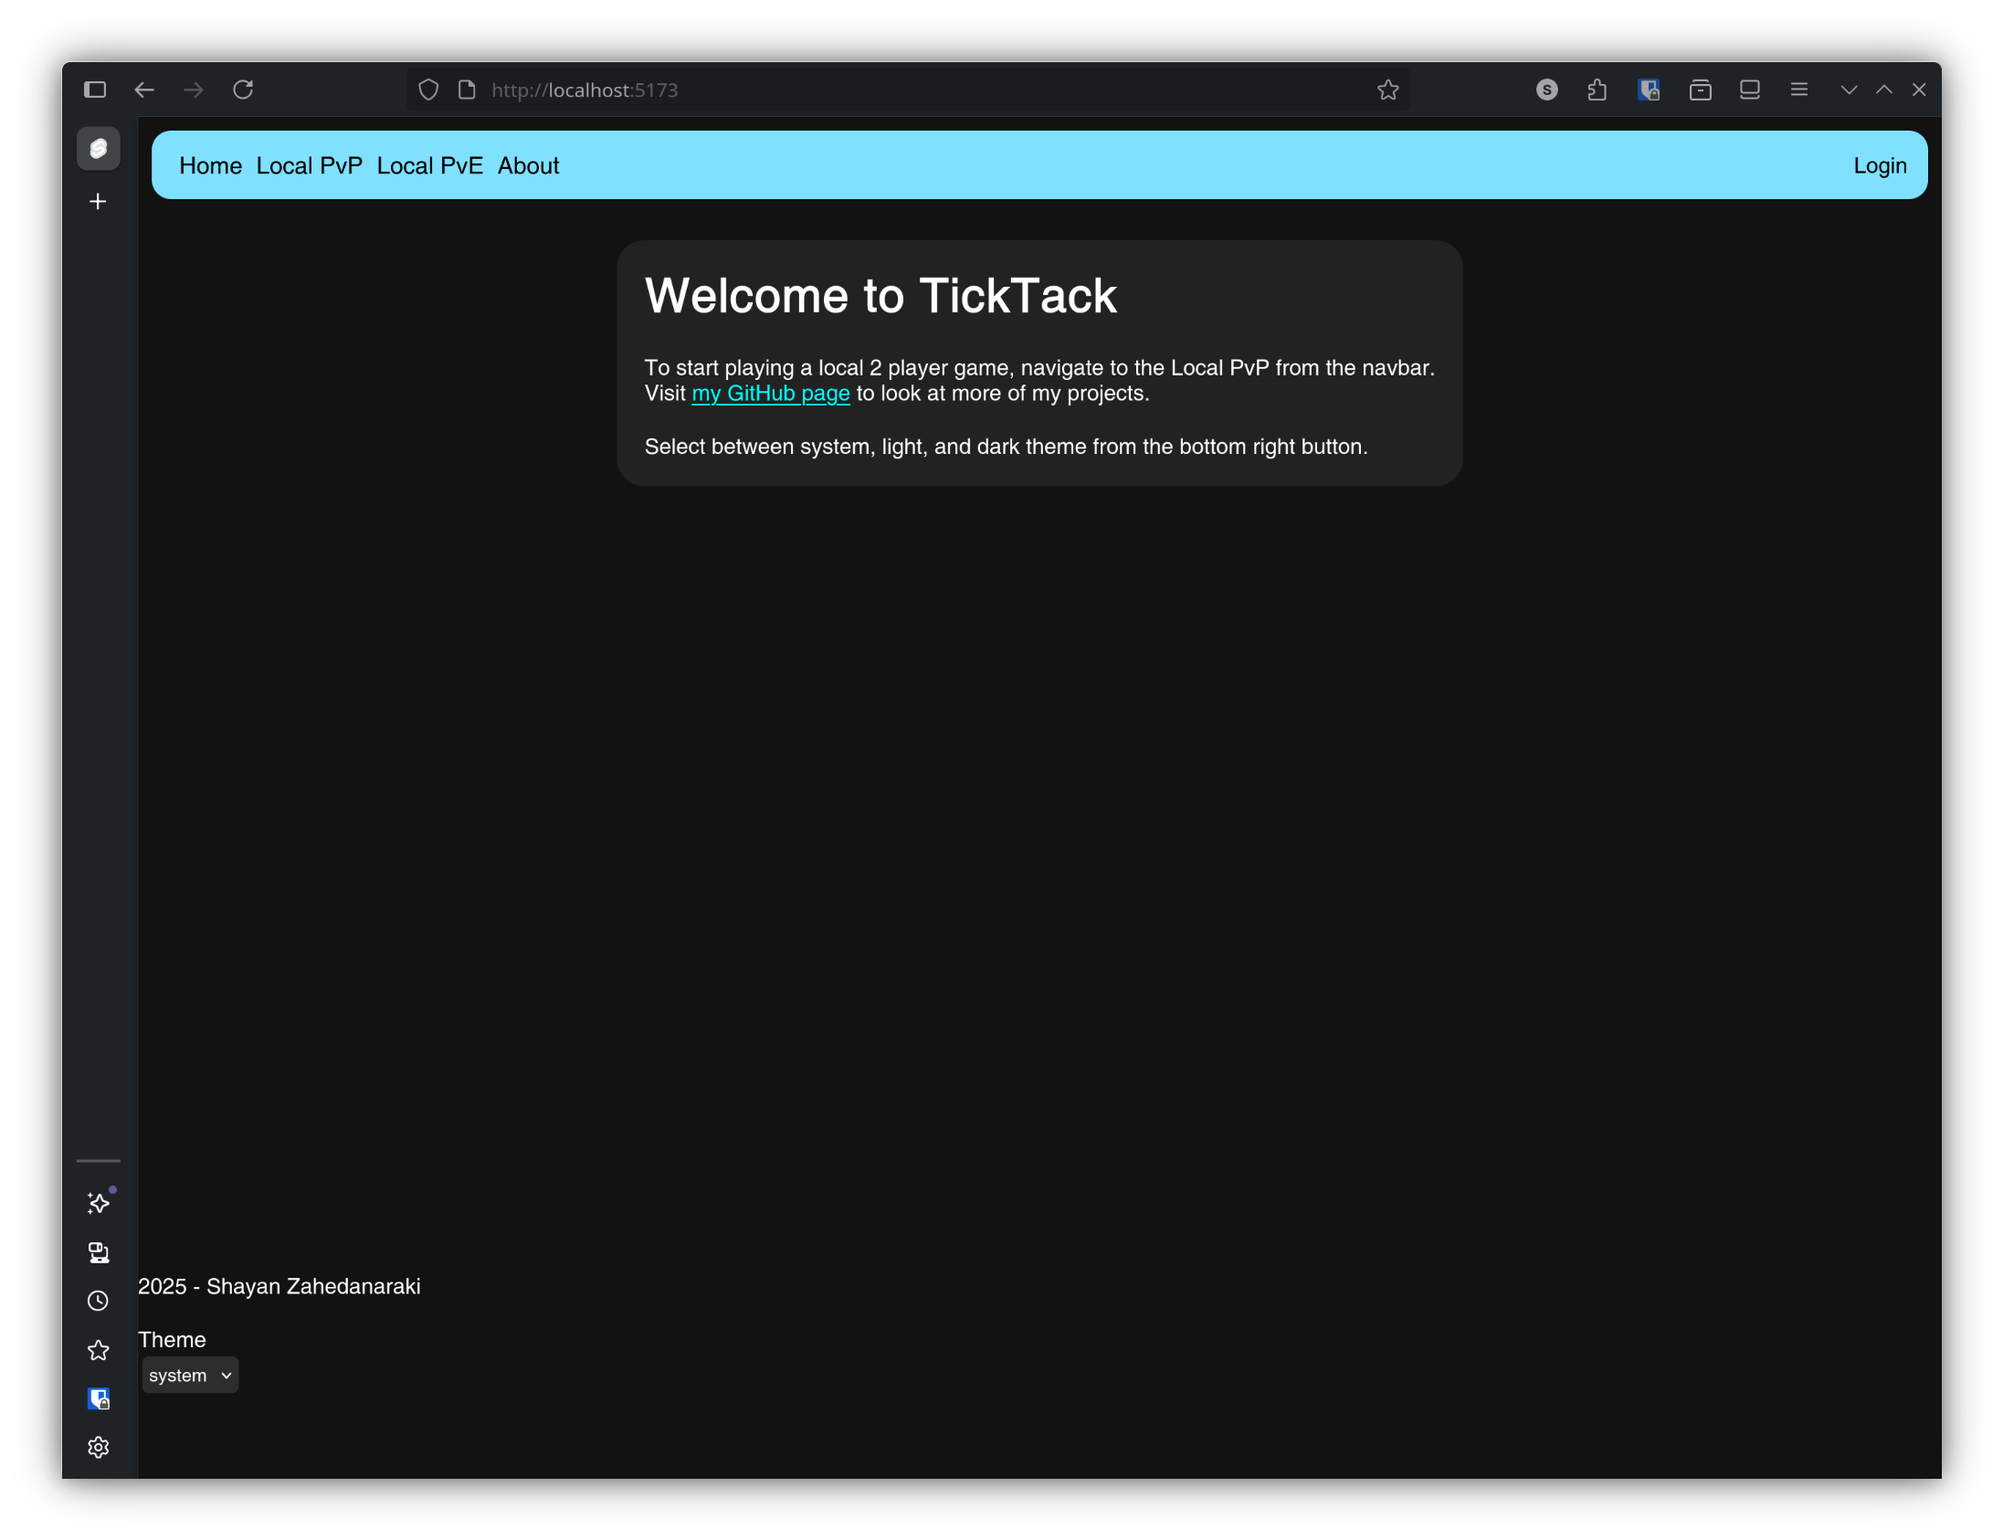
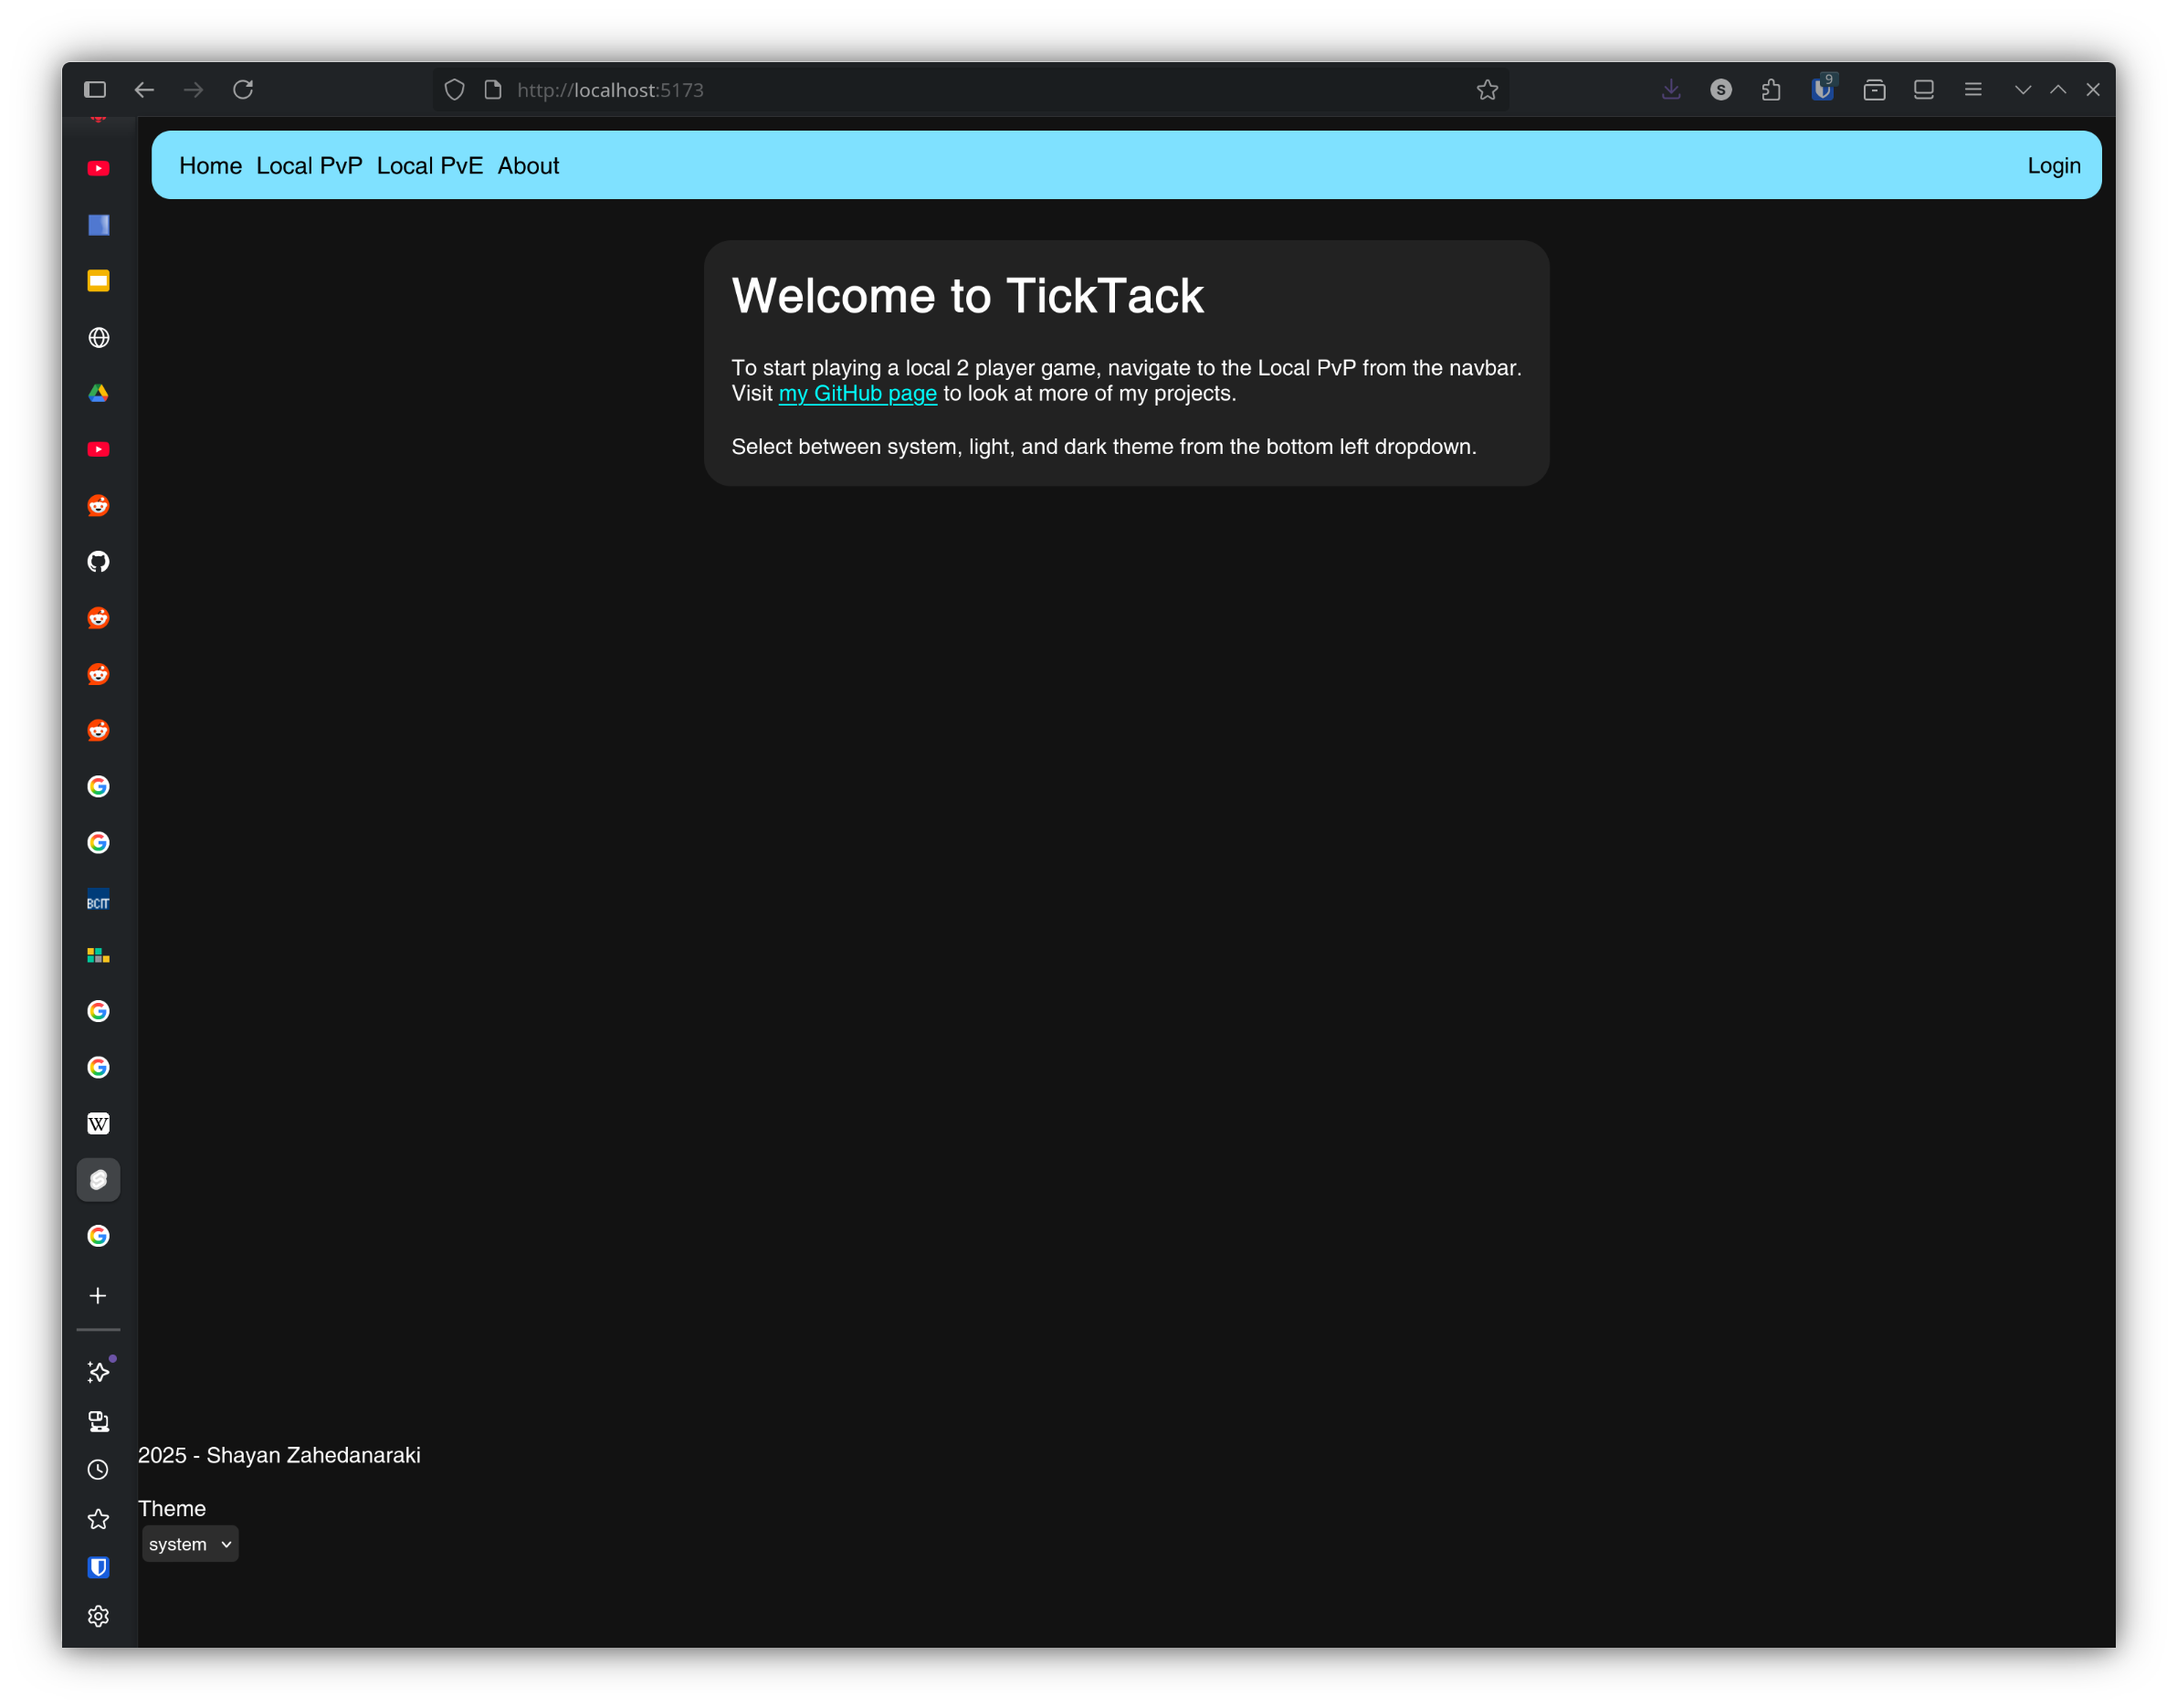
Fixed minor error in index and home page  welcome paragraph.

diff --git a/frontend/src/routes/home/+page.svelte b/frontend/src/routes/home/+page.svelte
@@ -36,7 +36,7 @@
 				Visit <a href="https://github.com/shayanz23">my GitHub page </a> to look at more of my projects.
 			</p>
 			<br />
-			<p>Select between system, light, and dark theme from the bottom right button.</p>
+			<p>Select between system, light, and dark theme from the bottom left dropdown.</p>
 		</div>
 </div>
 

diff --git a/frontend/src/routes/+page.svelte b/frontend/src/routes/+page.svelte
@@ -10,7 +10,7 @@
 			Visit <a href="https://github.com/shayanz23">my GitHub page </a> to look at more of my projects.
 		</p>
 		<br>
-		<p>Select between system, light, and dark theme from the bottom right button.</p>
+		<p>Select between system, light, and dark theme from the bottom left dropdown.</p>
 	</div>
 </div>
 
